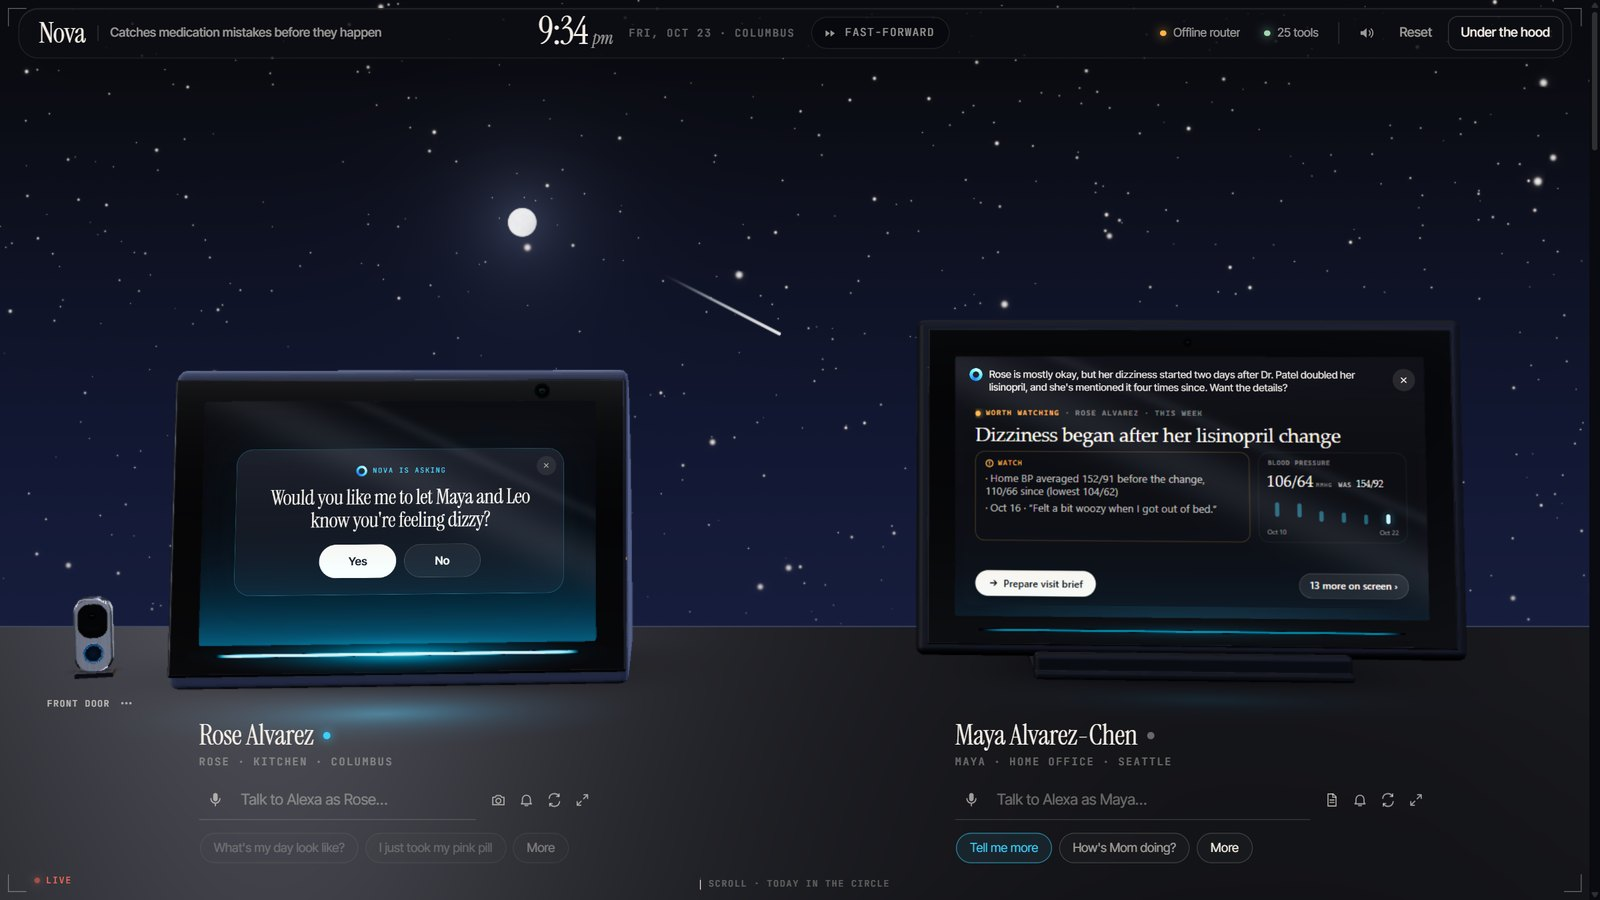
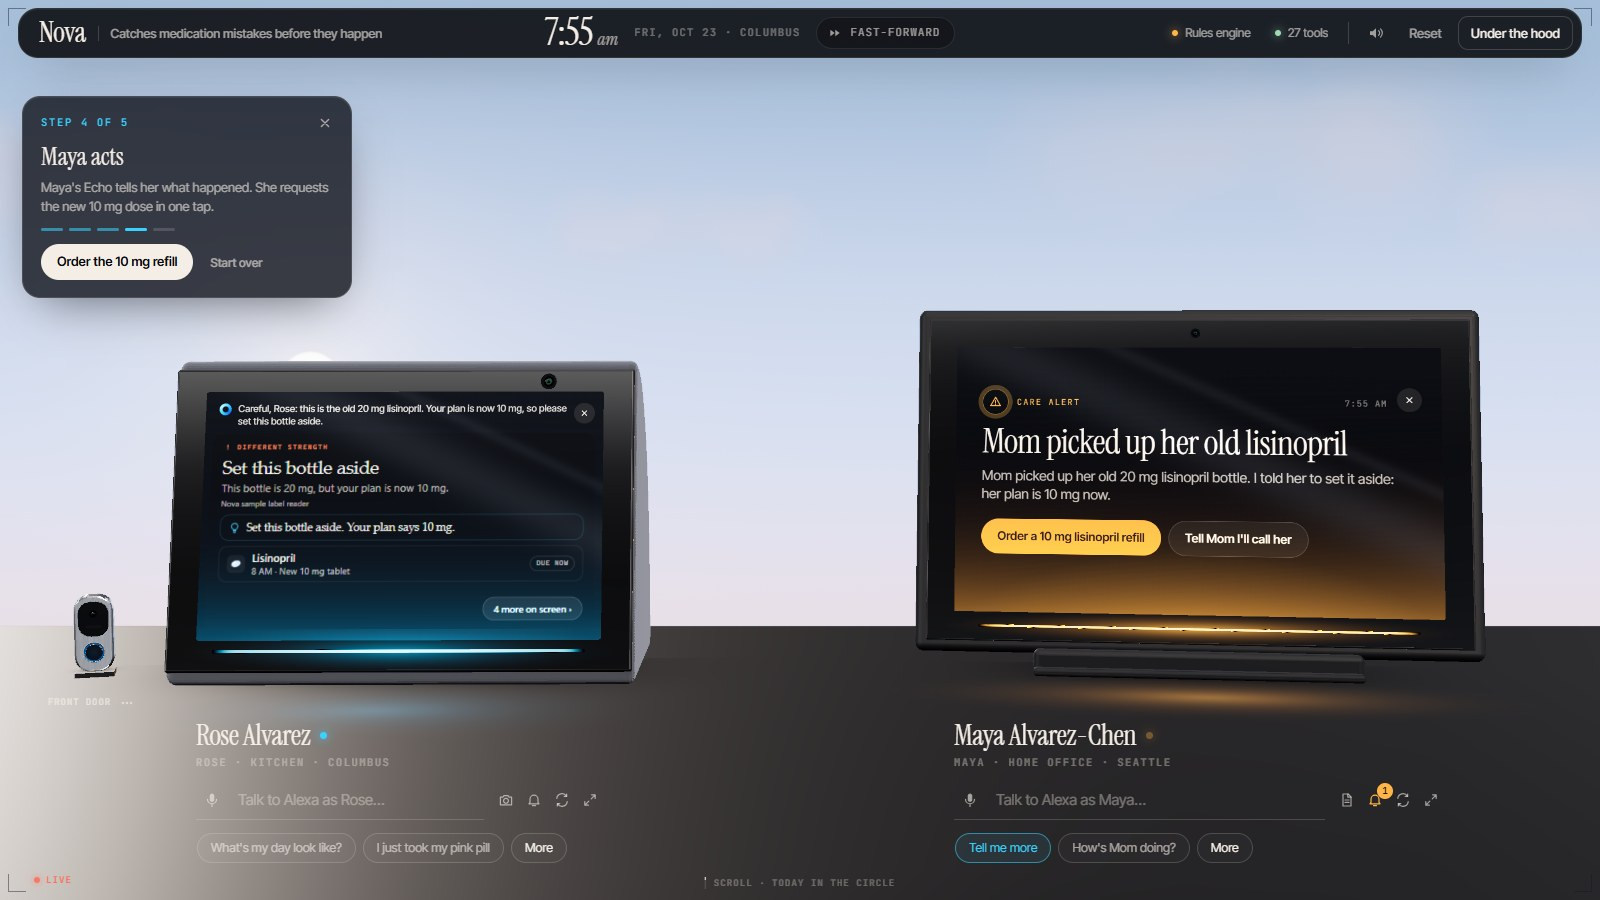
README: demo video link, safeguards as one list, fresh screenshots of the main story, counts that match the server (27 tools, 94 tests)

diff --git a/README.md b/README.md
@@ -12,7 +12,7 @@ for an older adult who lives alone and the people who care for her.
 ![MCP 2026-07-28](https://img.shields.io/badge/MCP-2026--07--28-0aa)
 ![Python 3.12+](https://img.shields.io/badge/python-3.12%2B-3776AB)
 
-[**Live demo**](https://nova-6kte.onrender.com/live) · [Story page](https://nova-6kte.onrender.com) · [Lite (no 3D)](https://nova-6kte.onrender.com/?flat=1) · [Architecture](docs/ARCHITECTURE.md) · [Submission notes](docs/SUBMISSION.md)
+[**Demo video**](https://youtu.be/moWaHEvPZAU) · [**Live demo**](https://nova-6kte.onrender.com/live) · [Story page](https://nova-6kte.onrender.com) · [Lite (no 3D)](https://nova-6kte.onrender.com/?flat=1) · [Architecture](docs/ARCHITECTURE.md) · [Submission notes](docs/SUBMISSION.md)
 
 </div>
 
@@ -47,7 +47,7 @@ Nova brings them together on the devices the household already uses. It connects
 | **The front door** | Rose's Ring doorbell; separate door sensor | Doorbell activity, expected visits to confirm, and door-opening signals |
 | **The cloud** | Maya's Echo Show 15, and Nova | Briefings, escalations, plan changes, the visit brief |
 
-Nova is a self-hosted **Model Context Protocol (MCP) server**, the open standard Alexa+ uses for third-party experiences. This repository also includes a **simulated Alexa+** (two Echo Shows and a Ring doorbell in the browser) whose agent runs on **Amazon Nova in Amazon Bedrock**, because Alexa+ developer preview access isn't generally available.
+Nova is a self-hosted **Model Context Protocol (MCP) server**, the open standard Alexa+ uses for third-party experiences. This repository also includes a **simulated Alexa+** (two Echo Shows and a Ring doorbell in the browser) whose agent is built for **Amazon Nova on Amazon Bedrock**, with a deterministic rules engine for the same tools, because Alexa+ developer preview access isn't generally available.
 
 ## What Nova does
 
@@ -61,11 +61,11 @@ Nova is a self-hosted **Model Context Protocol (MCP) server**, the open standard
 
 One sequence shows vision, state that persists, human approval, two identities from two tokens, voice and screen, and MCP. In the live demo, **Start the story** walks through it step by step.
 
-Care follow-ups have an owner and a history: caregivers can claim an alert, record an action, and resolve it. Other caregivers see who is handling it. Existing databases migrate automatically, preserving their alerts.
-
-Ring doorbell events never establish a visitor's identity. A scheduled visitor prompts a confirmation; the aide checklist and arrival notifications are sent only after someone confirms. Door-opening signals are labelled separately as door-sensor events.
-
-Image cards disclose whether a model or a bundled sample fixture read the image. Label confidence is a heuristic, not measured accuracy, and a patient-name mismatch blocks approval. Pharmacy handoffs and their ready times are explicitly simulated; Nova does not send requests to a pharmacy.
+**Safeguards around the story:**
+- **Follow-ups have an owner.** A caregiver can claim an alert, record what they did and resolve it, so the family doesn't double up. Everyone sees who is handling it.
+- **A doorbell is not an identity.** A press near a scheduled visit asks Rose to confirm who is there; the aide's checklist and the family's arrival notice go out only after she does. Door-opening signals are labelled as door-sensor events.
+- **Every image card names its reader**: Amazon Nova, or the sample label reader for the bundled demo photos. A patient-name mismatch on paperwork blocks approval.
+- **Refills are a handoff.** Nova records the request and tells the family which pharmacy to contact; it doesn't place pharmacy orders itself.
 
 **It speaks first.** A care engine runs on the household clock and turns the care plan into announcements on the right device.
 
@@ -82,7 +82,7 @@ Image cards disclose whether a model or a bundled sample fixture read the image.
 
 **It connects the dots, with evidence.** *"How's Mom doing?"* gets a one-sentence answer and a card that fits one screen:
 
-> **Dizziness began after her lisinopril change.** Home BP averaged 152/91 before the change and 110/66 since. Rose has mentioned dizziness four times since Oct 15. Grace saw her unsteady. Dr. Patel's notes say to call about dizziness.
+> **Dizziness began after her lisinopril change.** Home BP averaged 152/91 before the change and 110/66 since. Rose has mentioned dizziness four times since Oct 16. Grace saw her unsteady. Dr. Patel's notes say to call about dizziness.
 
 Insights come from deterministic, tested rules, and each one carries its evidence. Amazon Nova writes the words. Nova never diagnoses.
 
@@ -106,9 +106,9 @@ We showed the demo to a friend and asked what's hardest and what worries them. U
 
 One person's view, not a study; caregivers, nurses and pharmacists are next.
 
-| Rose is asked before her family is told, while Maya sees the evidence | A doctor-visit brief, one request away |
+| The old bottle: Rose is told to set it aside, and Maya can request the new dose in one tap | A doctor-visit brief, one request away |
 |---|---|
-| ![The live demo: a consent question on Rose's Echo Show and the briefing card on Maya's](docs/img/live-demo.jpg) | ![A visit brief on Maya's Echo Show](docs/img/visit-brief.jpg) |
+| ![The live demo: Rose's Echo Show says to set the old 20 mg bottle aside, while Maya's Echo Show offers a 10 mg refill](docs/img/live-demo.jpg) | ![A visit brief on Maya's Echo Show](docs/img/visit-brief.jpg) |
 
 ## Architecture
 
@@ -207,7 +207,7 @@ Open **/live** and press **Start the story** (top left). It runs the main story 
 1. **Maya: Scan paperwork → after-visit summary.** Nova reads the lisinopril change.
 2. **Approve.** Rose's Echo explains the change.
 3. **Rose: Show Alexa → the old lisinopril bottle.** Nova tells her to set it aside.
-4. **Maya: Order a 10 mg lisinopril refill**, from the alert on her Echo.
+4. **Maya: Order a 10 mg lisinopril refill**, from the alert on her Echo. Nova records the refill handoff.
 5. **Fast-forward to 6 PM.** A missed dose: a reminder, a follow-up, then Maya is told.
 
 Then try the rest: **Rose: Show Alexa → Ibuprofen** (Nova stops her, citing her doctor's notes), **Maya:** *"How's Mom doing?"* then *"Tell me more"*, and **Front door → Grace arrives**, then Rose says **Yes, it's Grace** after checking who is there.
@@ -277,7 +277,7 @@ All settings are environment variables (see [.env.example](.env.example)).
 uv run pytest -q
 ```
 
-The pytest suite runs in CI on every push. It covers:
+94 tests run in CI on every push. They cover:
 - the care engine (the escalation ladder, snooze, check-ins and wellness checks);
 - pill checks, including the safety rules for unreadable labels, low-confidence reads, missing strengths and look-alike products, and reconciliation;
 - the dizziness insight and its evidence, BP limits, privacy, grounded answers and red flags;

diff --git a/docs/SUBMISSION.md b/docs/SUBMISSION.md
@@ -5,6 +5,7 @@ Copy each section into the matching Devpost field.
 ## Links
 - Live: https://nova-6kte.onrender.com (story page) · https://nova-6kte.onrender.com/live (live demo) · MCP endpoint https://nova-6kte.onrender.com/mcp
 - Code: https://github.com/Dakshhhhh-ops/nova
+- Video: https://youtu.be/moWaHEvPZAU
 
 ## Tracks
 - Track: **Alexa+** (self-hosted MCP server over Streamable HTTP, plus a simulated Alexa+ experience in a web app). One track prize per project, and Alexa+ is where Nova is strongest.
@@ -49,7 +50,7 @@ This is one person's view, not a study; talking to caregivers, nurses and pharma
 
 **Running it for real.** Nova handles health data, so a real deployment runs in the care organization's own AWS account under a Business Associate Addendum, using HIPAA-eligible services only (Amazon Bedrock, Amazon Polly, Amazon ECS/RDS), with TLS everywhere and KMS-encrypted storage. "Minimum necessary" is already in the design: identity from the token, sharing controlled by Rose, consent before symptoms are shared, approval before plan changes, and an audit trail of who logged or handled what. Details are in the README.
 
-**How it works.** Nova is a self-hosted MCP server (official Python SDK 2.3, Streamable HTTP, MCP 2026-07-28 with 2025-11-25 compatibility), the open standard Alexa+ uses for integrations. It has 25 tools, 8 resources (including `nova://announcements`, the queue Nova uses to speak first), 2 prompts and 5 MCP Apps views that render on the Echo Show screens. Each Echo connects with a bearer token for one person, so the same tool answers differently for Rose and for Maya. A simulated Alexa+ (two Echo Shows and a Ring doorbell in the browser) runs an agent on Amazon Nova through the Bedrock Converse API, delivers Nova's announcements live, and speaks with Amazon Polly. A time-lapse clock plays a whole day in a minute. Deterministic rules find the patterns (so every insight is testable and cites evidence); Amazon Nova reads the images and writes the language. Account linking uses standard OAuth 2.1 (dynamic client registration, PKCE), so any MCP client can link a person's account. 81 tests and CI.
+**How it works.** Nova is a self-hosted MCP server (official Python SDK 2.3, Streamable HTTP, MCP 2026-07-28 with 2025-11-25 compatibility), the open standard Alexa+ uses for integrations. It has 27 tools, 8 resources (including `nova://announcements`, the queue Nova uses to speak first), 2 prompts and 5 MCP Apps views that render on the Echo Show screens. Each Echo connects with a bearer token for one person, so the same tool answers differently for Rose and for Maya. A simulated Alexa+ (two Echo Shows and a Ring doorbell in the browser) runs an agent on Amazon Nova through the Bedrock Converse API, delivers Nova's announcements live, and speaks with Amazon Polly. A time-lapse clock plays a whole day in a minute. Deterministic rules find the patterns (so every insight is testable and cites evidence); Amazon Nova reads the images and writes the language. Account linking uses standard OAuth 2.1 (dynamic client registration, PKCE), so any MCP client can link a person's account. 94 tests and CI.
 
 **Built with:** Python, MCP Python SDK 2.3 (MCPServer, Streamable HTTP, MCP Apps extension, resolvers/elicitation, OAuth 2.1 authorization server with dynamic registration and PKCE), Amazon Bedrock (Converse API, tool use, image input) with Amazon Nova 2 Lite, Amazon Polly (generative voice), FastAPI, SQLite, vanilla JS (Web Speech API, getUserMedia, WebAudio), Docker.
 
@@ -74,7 +75,7 @@ Each tool we used, answered the same way: what we used it for, what worked, what
 
 **MCP (spec + Python SDK 2.3)**
 - *Used for:* the whole Alexa+ integration: MCPServer, Streamable HTTP, structured output, tool annotations, icons, resources, prompts, MCP Apps, elicitation through resolvers, and an OAuth 2.1 authorization server (dynamic registration, PKCE, RFC 9728 metadata).
-- *Worked well:* A lot comes out of the box: structured output from type hints, protected-resource and authorization-server metadata from one `AuthSettings`, a DNS-rebinding guard, and an in-process `Client(server)` that made 81 tests easy to write. The migration error for `mcp.server.fastmcp` points straight to the guide.
+- *Worked well:* A lot comes out of the box: structured output from type hints, protected-resource and authorization-server metadata from one `AuthSettings`, a DNS-rebinding guard, and an in-process `Client(server)` that made 94 tests easy to write. The migration error for `mcp.server.fastmcp` points straight to the guide.
 - *Needs work:* Three behaviors cost real time (see the friction log): Apps tools registered after the server is built silently don't appear; `ctx.elicit()` fails on 2026-07-28 connections with an error that doesn't mention resolvers; and a resolver that elicits throws for clients without the elicitation capability unless you check `client_capabilities` yourself.
 - *Onboarding:* Good once you find the v2 docs. The rename from FastMCP to MCPServer and the new resolver model needed source reading.
 - *Would build with it again:* Yes.
